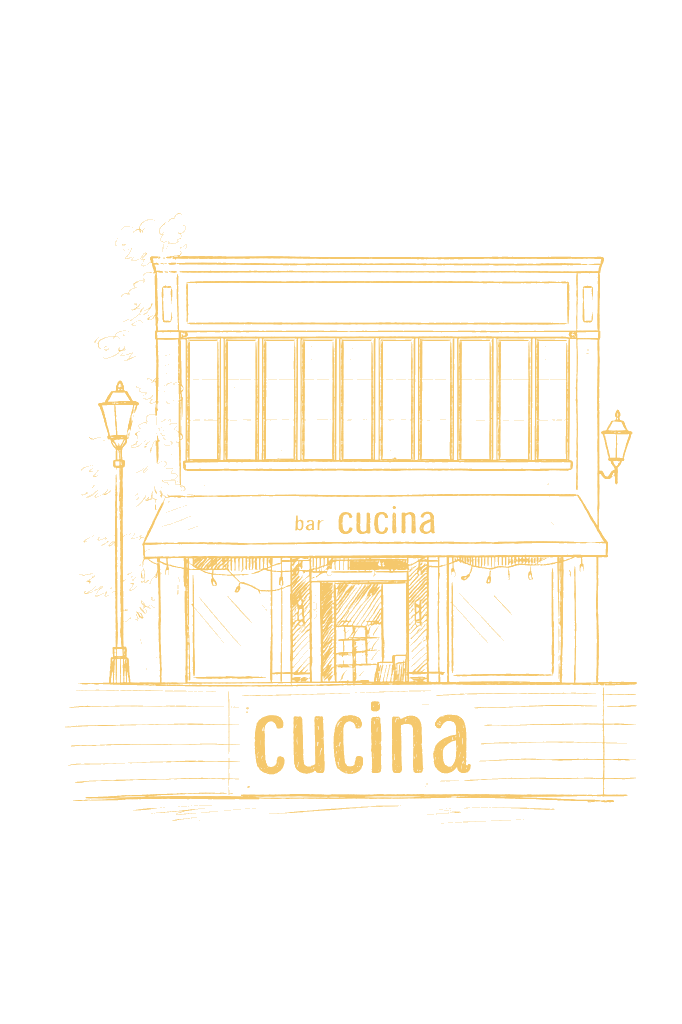
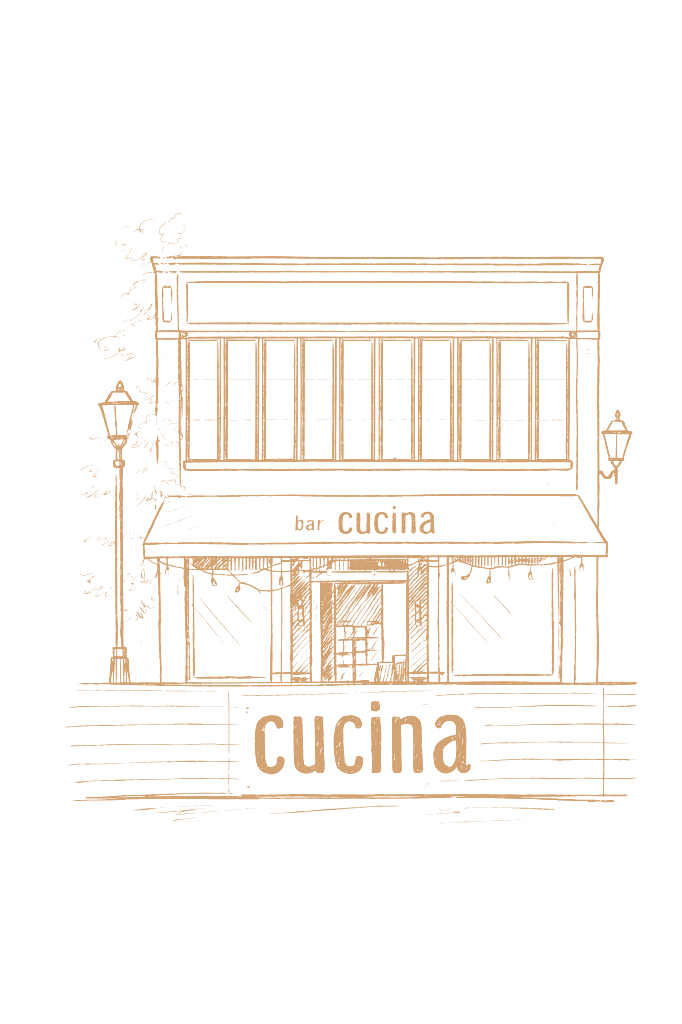
Remove standalone photo grid section above See You In San Anselmo footer

diff --git a/src/pages/Story.tsx b/src/pages/Story.tsx
@@ -52,14 +52,14 @@ const Story = () => {
       <SiteNav variant="solid" />
 
       <main className="flex-grow max-w-6xl mx-auto px-6 py-12 md:py-20 lg:py-24">
-        <div className="grid grid-cols-1 md:grid-cols-12 gap-10 lg:gap-16 items-center">
+        <div className="grid grid-cols-1 md:grid-cols-12 gap-8 md:gap-12 lg:gap-16 items-center">
           {/* Left Column: Story Text */}
-          <div className="md:col-span-7 space-y-6 text-left">
-            <h1 className="font-serif italic text-4xl sm:text-5xl md:text-6xl text-[#F5C86C] drop-shadow-md">
+          <div className="md:col-span-7 space-y-6 text-left max-w-xl">
+            <h1 className="font-serif italic text-3xl sm:text-4xl md:text-5xl text-[#D4A373] font-normal tracking-wide">
               Our Story
             </h1>
 
-            <div className="space-y-5 text-white/90 font-sans text-sm md:text-base leading-relaxed font-light">
+            <div className="space-y-6 text-[#E4D5C7]/90 font-sans text-sm sm:text-base leading-relaxed font-light">
               {paragraphs.map((paragraph, index) => (
                 <p key={index}>{paragraph}</p>
               ))}
@@ -68,11 +68,11 @@ const Story = () => {
 
           {/* Right Column: Architectural Drawing Illustration */}
           <div className="md:col-span-5 flex justify-center items-center">
-            <div className="relative max-w-md w-full p-2">
+            <div className="relative max-w-lg w-full p-2">
               <img
                 src={cucinaIllustration}
                 alt="Architectural drawing of Cucina SA storefront"
-                className="w-full h-auto object-contain filter brightness-110 contrast-105 opacity-90"
+                className="w-full h-auto object-contain filter brightness-105 opacity-95"
               />
             </div>
           </div>

diff --git a/src/pages/Index.tsx b/src/pages/Index.tsx
@@ -536,27 +536,6 @@ const Index = () => {
           </div>
         </section>
 
-        {/* SECTION 3 - Food & Wine Photos Gallery */}
-        <section className="max-w-6xl mx-auto px-6 pt-12 md:pt-16 pb-4">
-          <div className="grid grid-cols-3 gap-1.5 md:gap-3 border border-white/10 p-1.5 bg-[#130D0C] shadow-2xl">
-            <img
-              src={cucinaSalad}
-              alt="Seasonal salad with citrus and burrata"
-              className="w-full h-64 sm:h-72 md:h-80 object-cover"
-            />
-            <img
-              src={cucinaWine}
-              alt="Bottle of wine with a glass"
-              className="w-full h-64 sm:h-72 md:h-80 object-cover"
-            />
-            <img
-              src={cucinaPasta}
-              alt="Spaghetti with tomato sauce"
-              className="w-full h-64 sm:h-72 md:h-80 object-cover"
-            />
-          </div>
-        </section>
-
       </main>
 
       {/* Footer */}
